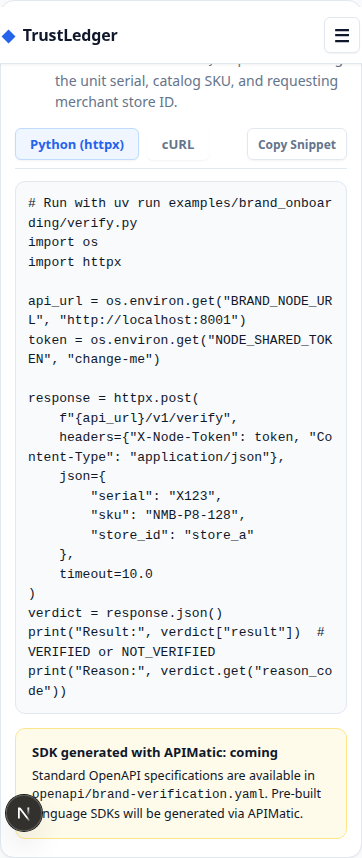
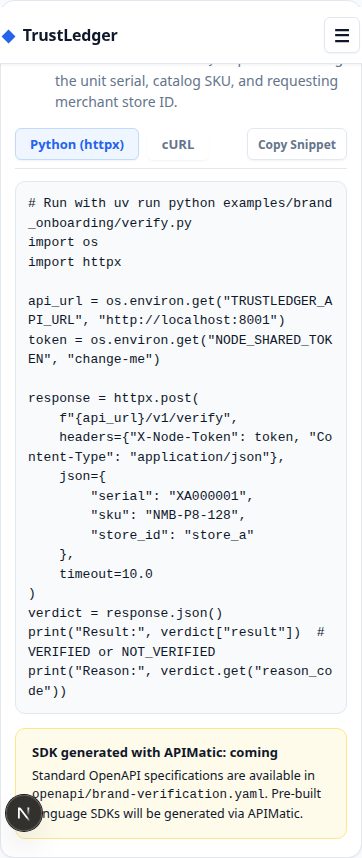
Standardize on TRUSTLEDGER_API_URL and use fictional unsold serial XA000001

diff --git a/web/app/brands/onboard/page.tsx b/web/app/brands/onboard/page.tsx
@@ -10,18 +10,18 @@ export default function BrandOnboardingPage() {
   const [activeTab, setActiveTab] = useState<"python" | "curl">("python");
   const [copied, setCopied] = useState(false);
 
-  const pythonSnippet = `# Run with uv run examples/brand_onboarding/verify.py
+  const pythonSnippet = `# Run with uv run python examples/brand_onboarding/verify.py
 import os
 import httpx
 
-api_url = os.environ.get("BRAND_NODE_URL", "http://localhost:8001")
+api_url = os.environ.get("TRUSTLEDGER_API_URL", "http://localhost:8001")
 token = os.environ.get("NODE_SHARED_TOKEN", "change-me")
 
 response = httpx.post(
     f"{api_url}/v1/verify",
     headers={"X-Node-Token": token, "Content-Type": "application/json"},
     json={
-        "serial": "X123",
+        "serial": "XA000001",
         "sku": "NMB-P8-128",
         "store_id": "store_a"
     },
@@ -35,7 +35,7 @@ print("Reason:", verdict.get("reason_code"))`;
   -H "X-Node-Token: \${NODE_SHARED_TOKEN:-change-me}" \\
   -H "Content-Type: application/json" \\
   -d '{
-    "serial": "X123",
+    "serial": "XA000001",
     "sku": "NMB-P8-128",
     "store_id": "store_a"
   }'`;

diff --git a/tests/test_brand_onboarding_example.py b/tests/test_brand_onboarding_example.py
@@ -10,7 +10,7 @@ def test_verify_missing_key(monkeypatch):
     monkeypatch.delenv("BRAND_API_KEY", raising=False)
     monkeypatch.delenv("NODE_SHARED_TOKEN", raising=False)
     with pytest.raises(SystemExit) as exc:
-        verify_mod.verify_product("X123", "NMB-P8-128", "store_a")
+        verify_mod.verify_product("XA000001", "NMB-P8-128", "store_a")
     assert "environment variable is required" in str(exc.value)
 
 
@@ -27,14 +27,14 @@ def test_verify_verified_response(monkeypatch):
     mock_resp.raise_for_status.return_value = None
 
     with patch("httpx.post", return_value=mock_resp) as mock_post:
-        res = verify_mod.verify_product("X123", "NMB-P8-128", "store_a")
+        res = verify_mod.verify_product("XA000001", "NMB-P8-128", "store_a")
         assert res["result"] == "VERIFIED"
         assert res["verification_id"] == "ver_mock123"
         assert res["reason_code"] is None
 
         mock_post.assert_called_once_with(
             "http://test-brand:8001/v1/verify",
-            json={"serial": "X123", "sku": "NMB-P8-128", "store_id": "store_a"},
+            json={"serial": "XA000001", "sku": "NMB-P8-128", "store_id": "store_a"},
             headers={"X-Node-Token": "test-token", "Content-Type": "application/json"},
             timeout=10.0,
         )
@@ -53,7 +53,7 @@ def test_verify_not_verified_response(monkeypatch):
     mock_resp.raise_for_status.return_value = None
 
     with patch("httpx.post", return_value=mock_resp):
-        res = verify_mod.verify_product("X123", "NMB-P8-128", "store_b")
+        res = verify_mod.verify_product("XA000001", "NMB-P8-128", "store_b")
         assert res["result"] == "NOT_VERIFIED"
         assert res["reason_code"] == "NOT_IN_CHANNEL"
         assert res["verification_id"] == "ver_mock456"

diff --git a/examples/brand_onboarding/verify.py b/examples/brand_onboarding/verify.py
@@ -1,11 +1,18 @@
-"""TrustLedger brand onboarding: verify a serial before PayPal payment."""
+"""TrustLedger brand onboarding: verify a serialized product before PayPal payment.
+
+Environment variables:
+  TRUSTLEDGER_API_URL: Base URL for verification endpoint (default: http://localhost:8001)
+  BRAND_API_KEY: Pre-shared token (matching NODE_SHARED_TOKEN)
+
+Defaults use fictional unsold seed serial 'XA000001' (Nimbus P8 128GB at store_a).
+"""
 import os
 import sys
 import httpx
 
 
 def verify_product(serial: str, sku: str, store_id: str) -> dict:
-    base_url = os.environ.get("TRUSTLEDGER_API_URL") or os.environ.get("BRAND_NODE_URL", "http://localhost:8001")
+    base_url = os.environ.get("TRUSTLEDGER_API_URL", "http://localhost:8001")
     api_key = os.environ.get("BRAND_API_KEY") or os.environ.get("NODE_SHARED_TOKEN")
     if not api_key:
         sys.exit("Error: BRAND_API_KEY (or NODE_SHARED_TOKEN) environment variable is required.")
@@ -20,8 +27,8 @@ def verify_product(serial: str, sku: str, store_id: str) -> dict:
 
 
 if __name__ == "__main__":
-    # Example using Nimbus P8 128GB at Store A
-    serial = sys.argv[1] if len(sys.argv) > 1 else "X123"
+    # Example using fictional unsold seed serial XA000001 for Nimbus P8 128GB at Store A
+    serial = sys.argv[1] if len(sys.argv) > 1 else "XA000001"
     sku = sys.argv[2] if len(sys.argv) > 2 else "NMB-P8-128"
     store_id = sys.argv[3] if len(sys.argv) > 3 else "store_a"
 
